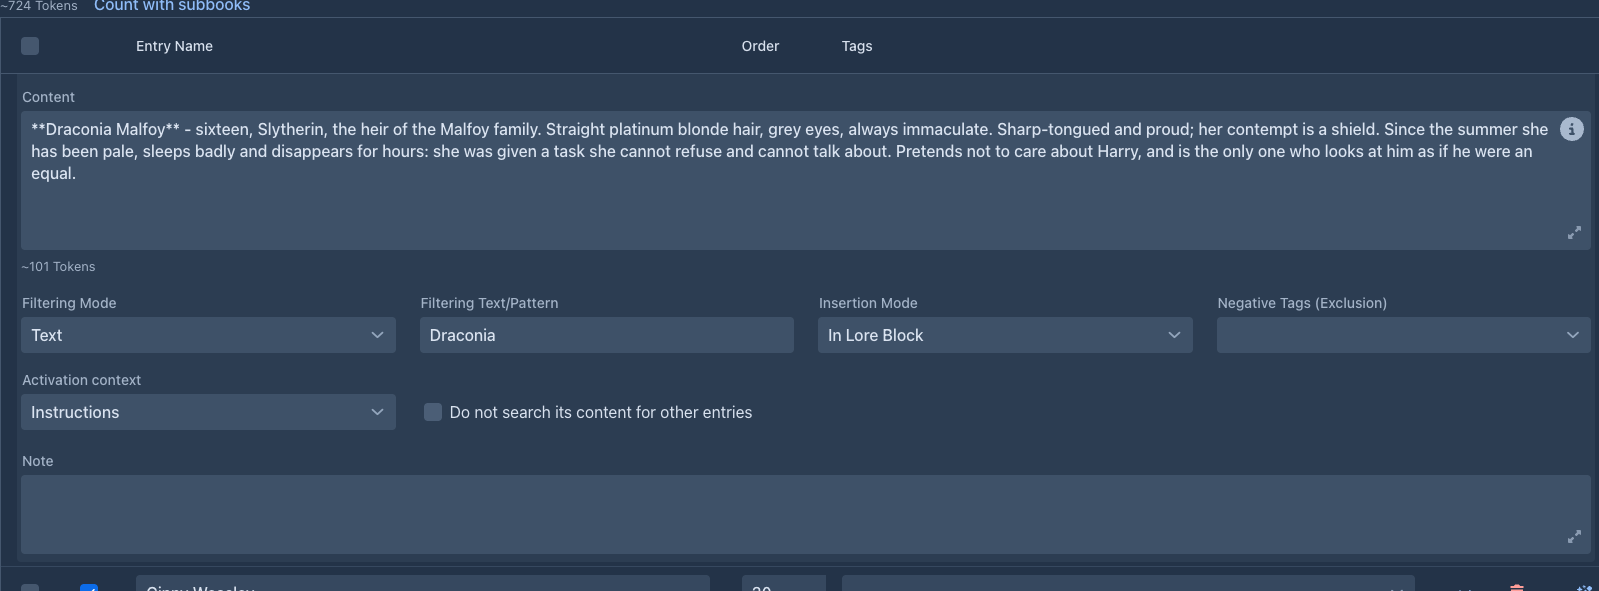
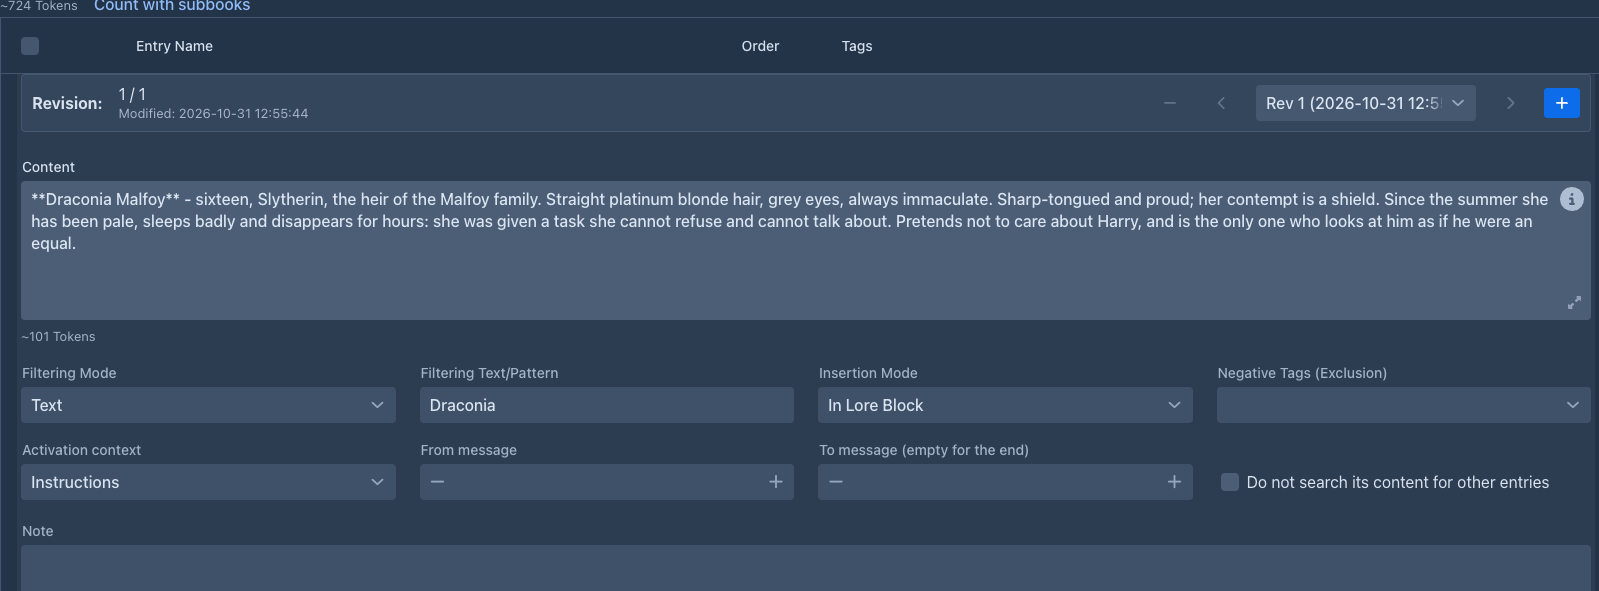
Document the range of parts of lorebook entries; retake the lorebook pictures
Developer pages (commands, domain model, generation pipeline, services, UI) describe
fromMessage/toMessage, OUT_OF_RANGE and the turn position; lorebook.png and
lorebook-entry.png show the new From message / To message fields. docs/ regenerated.

Claude-Session: https://claude.ai/code/session_019b7kJST2T8c48AxobhB9gj

diff --git a/manual/developer/ui.md b/manual/developer/ui.md
@@ -479,7 +479,7 @@ page (`service.find(id)`) and wraps them in a `BackendTableItem` subclass. It al
 | `HelpAssistantWidget` | The help chat: a round robot `Button` fixed in the bottom right corner (`CssStyles.HELP_FAB`) opening a fixed panel above it (`HELP_PANEL`: header with clear and close, which AI answers, a warning when `Info.metered()`, the check box *Let the assistant look at my books* with its notice (`booksBox`, read by `loadBooksAllowed` when the panel opens and saved by `saveBooksAllowed` through `HelpAssistantService.setBooksAllowed`), the messages, an input row whose send button turns into stop). Added to `Main` after the workspace, so the phone layout has it too; hidden unless `HelpAssistantService.isAvailable()` when the page is built, the panel reads `getInfo()` at each opening. Answers stream into a `Markdown` card with `ui.access` + `UIPushGuard.push`; the conversation is `SessionPoint.getHelpChat()` (the widget keeps the list, the callbacks have no session). A request that fails or is refused (limit) takes the question back into the input field and shows the reason in the card. Reasoning chunks are not shown. |
 | `LorebookPreview` | The read only *Lorebook* tab of the desktop story editor: a tree grid of the lorebook (optionally with its sub lorebooks as top level rows) and its entries, opening to the content and the text activation. `create()`, then `refresh(lorebook)`. |
 | `TagMultiComboBox` | Tag selection with lazy search (`TagService.searchTagsForUser`) and creation of new tags. |
-| `LorebookActivationPreviewDialog` (`ui.dialogs`) | The *Preview activation* of `LorebookView` and `PhoneLorebookView`: a text area (lazy value change), an optional book to take the tags from (`TagRelationService.getTagsForObject`) and a grid of `LorebookEntryVerdict`s from `LorebookActivationService.evaluateAll(root, collectLorebooks(root), tags, text, parts)` (`parts`: `recentParts` of the active leaf of the picked book, as many as `partsNeeded` says, none without a book) - the used mark, name, lorebook, order, scan pass and the localized reason (`Localization.getActivationReason`, keys `ENUM_ACTIVATION_REASON_*`) with its detail. The summary counts the used entries and their tokens (`TokenizerService.countTokensApprox` of the raw payload). Read only, nothing is saved, no events: what extensions change in a generation is not shown. |
+| `LorebookActivationPreviewDialog` (`ui.dialogs`) | The *Preview activation* of `LorebookView` and `PhoneLorebookView`: a text area (lazy value change), an optional book to take the tags from (`TagRelationService.getTagsForObject`) and a grid of `LorebookEntryVerdict`s from `LorebookActivationService.evaluateAll(root, collectLorebooks(root), tags, text, parts, position)` (`parts`: `recentParts` of the active leaf of the picked book, as many as `partsNeeded` says, none without a book; `position`: `turnPosition` of that leaf - the number of the next part - for the entries limited to a range of parts, only when `positionNeeded` and a book is picked, else null and the ranges are not checked) - the used mark, name, lorebook, order, scan pass and the localized reason (`Localization.getActivationReason`, keys `ENUM_ACTIVATION_REASON_*`) with its detail. The summary counts the used entries and their tokens (`TokenizerService.countTokensApprox` of the raw payload). Read only, nothing is saved, no events: what extensions change in a generation is not shown. |
 | `LorebookMassEditDialog` (`ui.dialogs`) | The *Mass edit* of `LorebookView`: one `Grid<Row>` with the entries of a lorebook and of its subbooks (`LorebookService.getLorebookTree`, the lorebook first, each once), sorted by `LorebookEntry.order`, then by the position of the lorebook in the tree, then by name. A `Row` is an entry with the lorebook it is in and whether that lorebook is locked (`AgentRunService.findLockingRun(Lorebook)`, asked for each lorebook of the tree, as a subbook can be used by another book than the root). The cells change the enabled flag, name, order (the grid is sorted again), tags, filtering mode, filtering, insertion mode, negative tags and note (the fields of the detail row of `LorebookView`) in place through `LorebookEntryService.save`; the lorebook cell and the *Move checked* button call `LorebookEntryService.move`, which refuses (`LorebookLockedException`, shown by `UIUtils.internalServerError` as a warning) both a locked source and, since this dialog, a locked target lorebook. The text is `StringUtils.abbreviate`d to `CONTENT_PREVIEW_LENGTH` and kept on one line by `CssStyles.MASS_EDIT_CONTENT`. Locked rows use `CssStyles.MULTI_TAG_LOCKED` and are never targets. The `onChange` runnable (the view's `refreshEntries`) runs when the dialog is closed after a change. |
 | `MultiTagDialog` (`ui.dialogs`) | Puts one tag on many books, lorebooks or the entries of a lorebook (`Kind.BOOKS`, `Kind.LOREBOOKS`, or the constructor with a `Lorebook`), opened from `ManuscriptPart` and `LorebookView`. A `ComboBox<Tag>` (an unknown typed value is made with `TagService.getOrCreateForUser`) and a grid of rows (check box, name, chips of the tags with the picked one marked, apply / remove buttons); the rows with the picked tag sort first. The tags of all rows come from one `TagRelationService.getTagsForObjects`; apply and remove go through `createRelation` / `removeRelation` with the class of the entity (`Manuscript`, `Lorebook`, `LorebookEntry`), positive relations only. A row is locked when `AgentRunService.findLockingRun` returns a run (an entry is locked with its lorebook); locked rows are grayed out (`CssStyles.MULTI_TAG_LOCKED`), can not be ticked and are skipped when the change is made, which asks the lock again as the run may have started since the list was read. The tag relations themselves are not guarded by the services, so the lock is checked here. |
 | `ManuscriptCloneDialog` (`ui.dialogs`) | The clone button of the book list (`ManuscriptPart`, `PhoneManuscriptPart`): the name of the copy (the book's name and *(Copy)*) and **Only current branch**; **Clone** calls `BackupService.cloneManuscript(source, name, onlyCurrentBranch)` and gives the new book to `setOnClone`, which the book list uses to read itself again. The lorebook is linked, not copied. |

diff --git a/manual/developer/services.md b/manual/developer/services.md
@@ -206,7 +206,7 @@ with `java.util.zip`.
 | Service | Responsible for |
 |---|---|
 | `LorebookService` | `findAllRegularForUser` / `findAllAgenticForUser` (the lorebooks without or only the working copies of agents; `findAllForUser` returns both), `fillEntries` (loads entries with their effective tags for generation and the editor), `getSubbooks`, `delete(book, false)` also soft deletes the entries and tags of the lorebook, export / import in Marginalia's format (`exportLorebook`, `importLorebook`, `marshalLorebooks`, `analyzeImport`, `importLorebooks`), SillyTavern import (`importFromSillytavern`, via `SillyTavernEntryConverter`) and export (`exportToSillytavern`: the entries of the lorebook and its subbooks, root first, in one world info file; `SillyTavernEntryConverter.exportKeys` turns a filter into keys, a regular expression into `/pattern/flags` with the leading Java flags moved after it and `\Q..\E` quotes escaped),  `addSubbook`, `removeSubbook`, `setSubbooks` and `createSubbook` change the subbooks of a lorebook with the cycle check (`LorebookCycleException`, `wouldCycle`); `cloneLorebook(book, name)` saves a new lorebook with the entries and tags of the book (they go through `marshalEntry` and `unmarshalContent`, so the entries get new uuids) and the same subbooks; `marshalLorebooks(root, true)` marshals the entries with their uuids and `copyLorebooks(lorebooks, pairs)` reports which copy is which original. `save` and `delete` refuse a lorebook locked by an agent (`LorebookLockedException`, see [Agents](agents.md#the-working-copy-and-the-lock)). |
-| `LorebookActivationService` | Which entries a generation uses and why (`Reason`: constant, filter matched, filter found in the content of another entry (`LORE_MATCHED`, the scan depth of the lorebook), disabled, negative tag, missing tag, filter not matched, and `EXTENSION_ACTIVATED` / `EXTENSION_SKIPPED` for what a listener decided): the rules of the generation step that puts the lore into the prompt, shared with `/preview-lore-activation` and the *Preview activation* window (`evaluateAll`, the same passes without events) so that they agree. An entry with `ActivationContext.INCLUDE_PARTS` also looks into the newest `activationParts` parts of the story: `partsNeeded` (the largest of the enabled entries, 0 = the story is not read) says how many to read, `recentParts(leaf, count, excludeLeaf)` reads them, `evaluate(entry, tags, instructions, parts)` / `evaluateAll(..., parts)` take them (the overloads without parts search the instructions only). |
+| `LorebookActivationService` | Which entries a generation uses and why (`Reason`: constant, filter matched, filter found in the content of another entry (`LORE_MATCHED`, the scan depth of the lorebook), disabled, negative tag, missing tag, filter not matched, and `EXTENSION_ACTIVATED` / `EXTENSION_SKIPPED` for what a listener decided): the rules of the generation step that puts the lore into the prompt, shared with `/preview-lore-activation` and the *Preview activation* window (`evaluateAll`, the same passes without events) so that they agree. An entry with `ActivationContext.INCLUDE_PARTS` also looks into the newest `activationParts` parts of the story: `partsNeeded` (the largest of the enabled entries, 0 = the story is not read) says how many to read, `recentParts(leaf, count, excludeLeaf)` reads them, `evaluate(entry, tags, instructions, parts)` / `evaluateAll(..., parts)` take them (the overloads without parts search the instructions only). An entry limited to some parts (`fromMessage` / `toMessage`) is `Reason.OUT_OF_RANGE` unless the number of the part the turn creates (`turnPosition(leaf, excludeLeaf)`, passed as `position` to `evaluate` / `evaluateAll`; null = not checked; `positionNeeded` says whether any enabled entry has a range) is inside it. |
 | `LorebookEntryService` | `getEntriesForLorebook`; `delete(entry, false)` also deletes the tags of the entry. `create(lorebook, fields)` and `update(entry)` save an entry and return the problems of its payload template and regular expression as data (`EntrySaved`, `EntryProblem`; a broken entry is saved all the same), `validate(entry)`, `deleteEntry(lorebook, entry)` checks the entry is one of the lorebook; `save` and `delete` refuse an entry of a locked lorebook. |
 | `TagService` | The user's tags: `searchTagsForUser`, `countTagsForUser` (for lazy combo boxes), `getOrCreateForUser(value)`, and for the Tags tab of the settings `findUsageForUser` (every tag with the number of its relations, `TagUsage`), `findRenameConflict`, `rename` (refuses a value another tag already has) and `merge(source, target)` (moves the relations of `source` to `target`, then deletes `source`). The tags are looked up by uuid among the current user's, so a foreign tag is ignored. |
 | `TagRelationService` | Attaching tags to any entity (`createRelation`, `removeRelation`, with `negative` for negative tags) and querying both ways (`getTagsForObject`, `getTagsForObjects` for the tags of many objects in one query, `getObjectIdsForTag`, `getObjectsForTag`); `deleteForTag` and `deleteForObject` delete the relations of a deleted tag or tagged object; `moveRelations(from, to)` re-points the relations of a tag to another one (a relation the object already has with `to` is deleted instead) and `countRelationsByTag` counts the relations of each tag of the user. |

diff --git a/manual/developer/generation-pipeline.md b/manual/developer/generation-pipeline.md
@@ -156,6 +156,7 @@ Skipped when the book has no lorebook. Otherwise:
    | Check | Rule |
    |---|---|
    | enabled | `entry.enabled` |
+   | range of parts | `fromMessage` / `toMessage` are empty, or the number of the part the turn creates is inside them (both included): else `OUT_OF_RANGE`, whatever the rest says - the entry is also never a `FILTER_NOT_MATCHED` candidate of the scan of step 4. Checked only when the position is known (see below) |
    | negative tags | none of the entry's negative tags is a tag of the book |
    | tags | the entry has no tags, or one of them is a tag of the book (the entry's tags include the tags of its lorebook) |
    | filter | no filter, or the filter matches the **rendered user prompt** (for `activationContext = INCLUDE_PARTS`: the text of the newest `activationParts` parts of the branch, oldest first, then the user prompt, all joined by blank lines; see below): `KEYWORDS_OR` / `KEYWORDS_AND` - the filter split by commas, trimmed, blanks dropped; any / every keyword is a case-insensitive substring (no keyword never matches); `TEXT` - case-insensitive substring; `REGEX` - case-insensitive `find()` (`DOTALL`); an invalid regex never matches |
@@ -165,6 +166,11 @@ Skipped when the book has no lorebook. Otherwise:
    excludeLeaf)`: the non-blank `response` of the branch from the root to the active leaf, the newest `n`, oldest first (the leaf is left out
    for a swipe or a regeneration - it is the part being replaced). With 0 the story is not read. Each entry then takes the newest of the
    parts it asks for (`evaluate(entry, tags, instructions, parts)`); the scan of step 4 does not use the parts.
+
+   The position of the turn is `activationService.turnPosition(activeLeaf, excludeLeaf)`: the number of parts of the branch (blank ones
+   included, like the outline) plus one, or - for a swipe or a regeneration (`excludeLeaf`) - the number of the leaf itself. The step asks for it
+   only when `positionNeeded(entries)` (an enabled entry has a range), else it passes null and no range is checked
+   (`evaluate(entry, tags, instructions, parts, position)`).
 4. **Scan** (only with a scan depth): `Lorebook.scanDepth` of the lorebook the book uses (clamped to
    `LorebookActivationService.MAX_SCAN_DEPTH`, 5; the value of a sub-lorebook is ignored) is how many passes follow.
    Pass n takes the entries pass n - 1 activated (pass 0 is step 3), leaves out those with `preventRecursion` or no

diff --git a/manual/developer/commands/index.md b/manual/developer/commands/index.md
@@ -308,7 +308,7 @@ name and tag in Java and keeps the numbers of the whole lorebook; `search-lore` 
 
 `preview-lore-activation` asks `LorebookActivationService` (`domain.service`), the rules the generation step `ProcessLorebookStep` uses too: `collectLorebooks` (the enabled
 tree with the entries filled in), `orderedEntries` (by `order`, the older first), `evaluate(entry, bookTags, text, parts)` (`parts`: the story before the turn, from `recentParts` with `partsNeeded` as the count - the active branch of the book, or the parts in front of the given part - for the entries that look into it; a `Verdict` with a `Reason`: `CONSTANT`,
-`FILTER_MATCHED`, `LORE_MATCHED`, `DISABLED`, `NEGATIVE_TAG`, `MISSING_TAG`, `FILTER_NOT_MATCHED`), `evaluateAll` (all the entries and the same `parts`, with the passes of the scan depth of the root
+`FILTER_MATCHED`, `LORE_MATCHED`, `DISABLED`, `OUT_OF_RANGE`, `NEGATIVE_TAG`, `MISSING_TAG`, `FILTER_NOT_MATCHED`; `OUT_OF_RANGE`: the entry is limited to some parts and the turn - the next part of the branch, or the given part - is outside them), `evaluateAll` (all the entries and the same `parts` and the position of the turn, with the passes of the scan depth of the root
 lorebook: an entry found by the content of others is `LORE_MATCHED`, its row has `scanDepth`, the pass) and `renderPayload`. The step only adds its events around them, so what the command
 shows is what a generation does. With a part the filters are looked for in the user prompt of the book rendered from the turn input stored with the part, in a
 fresh `TemplateContext` (the book, the narration settings, the variables of the book and of the part; not the story), so a payload that reads the story renders

diff --git a/manual/developer/domain-model.md b/manual/developer/domain-model.md
@@ -474,6 +474,7 @@ uuids; the overload with a `Collection<UuidPair>` also reports `ANNOTATION` pair
 | `filtering`, `filteringMode` | JSON | Activation filter: keywords separated by commas, a text to find, or a regular expression (`FilteringMode.KEYWORDS_OR` / `KEYWORDS_AND` / `TEXT` / `REGEX`). |
 | `insertionMode` | JSON | `IN_LORE_BLOCK` or `BEFORE_USER_PROMPT`. |
 | `activationContext`, `activationParts` | JSON | What the filter is looked for in: `ActivationContext.INSTRUCTIONS` (default, the rendered user prompt) or `INCLUDE_PARTS` (the user prompt and the newest `activationParts` parts of the story, at least 1; `partsInContext()` is 0 for `INSTRUCTIONS`). Copied by clone, export (`activationContext`, `activationParts`) and import; the Lorebook VCS plugin keeps both in its revisions. |
+| `fromMessage`, `toMessage` | JSON | `Integer`, null = no limit (a value below 1 is stored as null): the entry is used only for the turns that create a part with a number in the range, both included, numbered like the outline (the first part of the branch is 1). `hasMessageRange()`, `inMessageRange(position)`. The check comes before tags and filter and gives `Reason.OUT_OF_RANGE`. Copied by clone, export (`fromMessage`, `toMessage`) and import; the Lorebook VCS plugin keeps both in its revisions (older ones have none). |
 | `preventRecursion` | JSON | The content of the entry is not searched for the filters of other entries (see `Lorebook.scanDepth`); it can still be used itself. Copied by clone, export and import. |
 | `cachedTags`, `cachedNegativeTags` | transient | Filled by `fillEntries`: the entry's tags plus the tags of its lorebook, and the entry's negative tags. |
 
